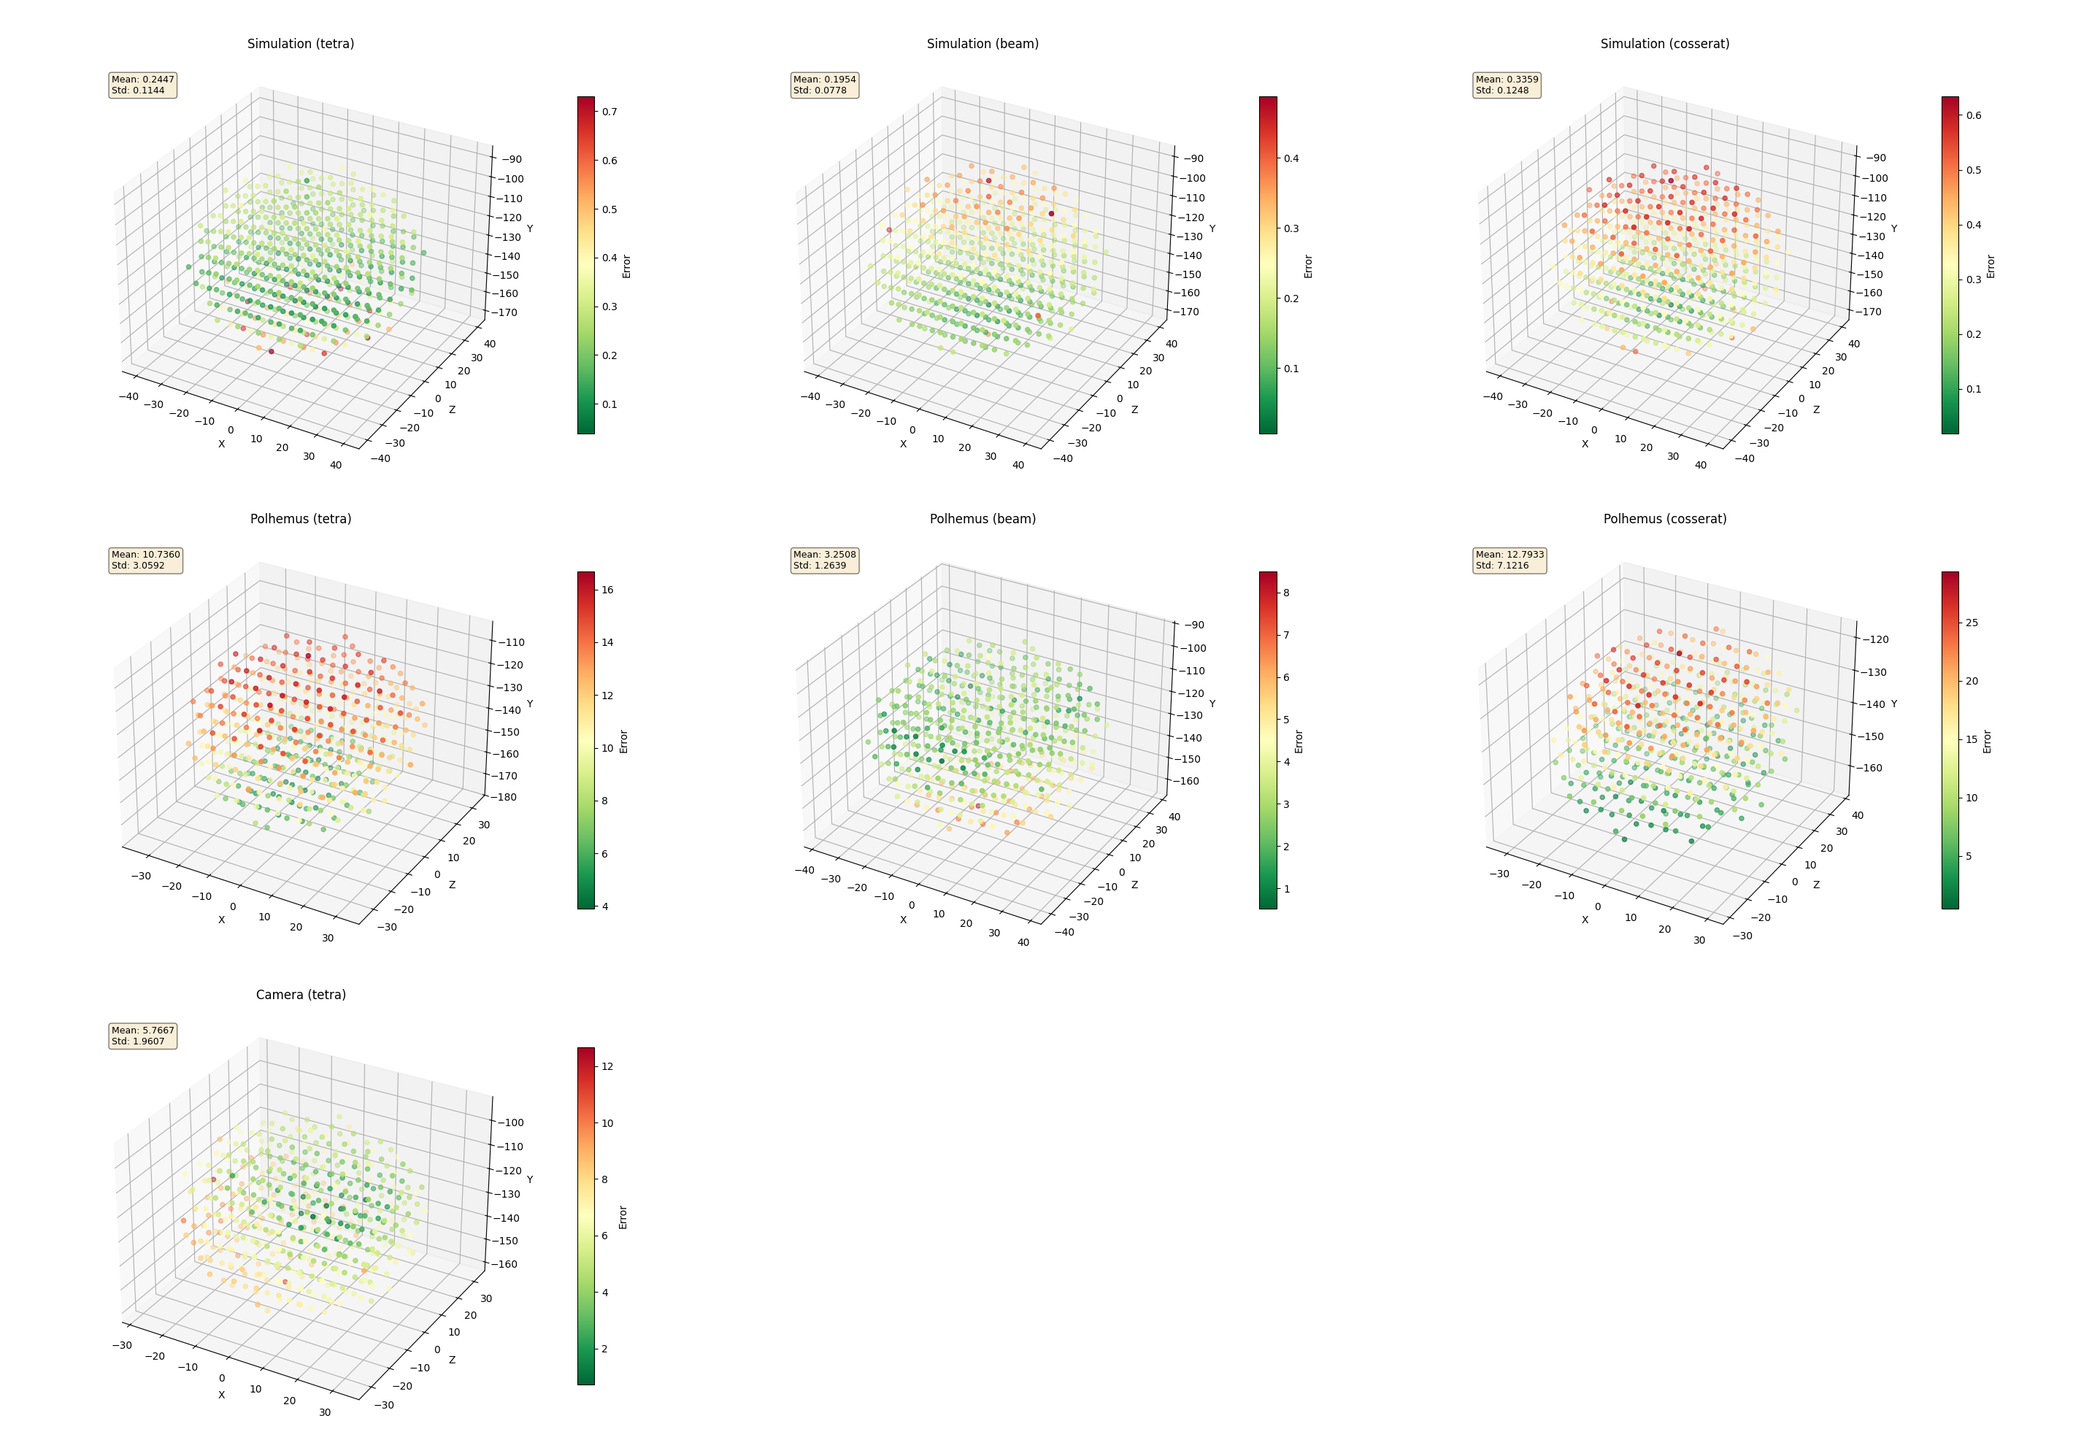
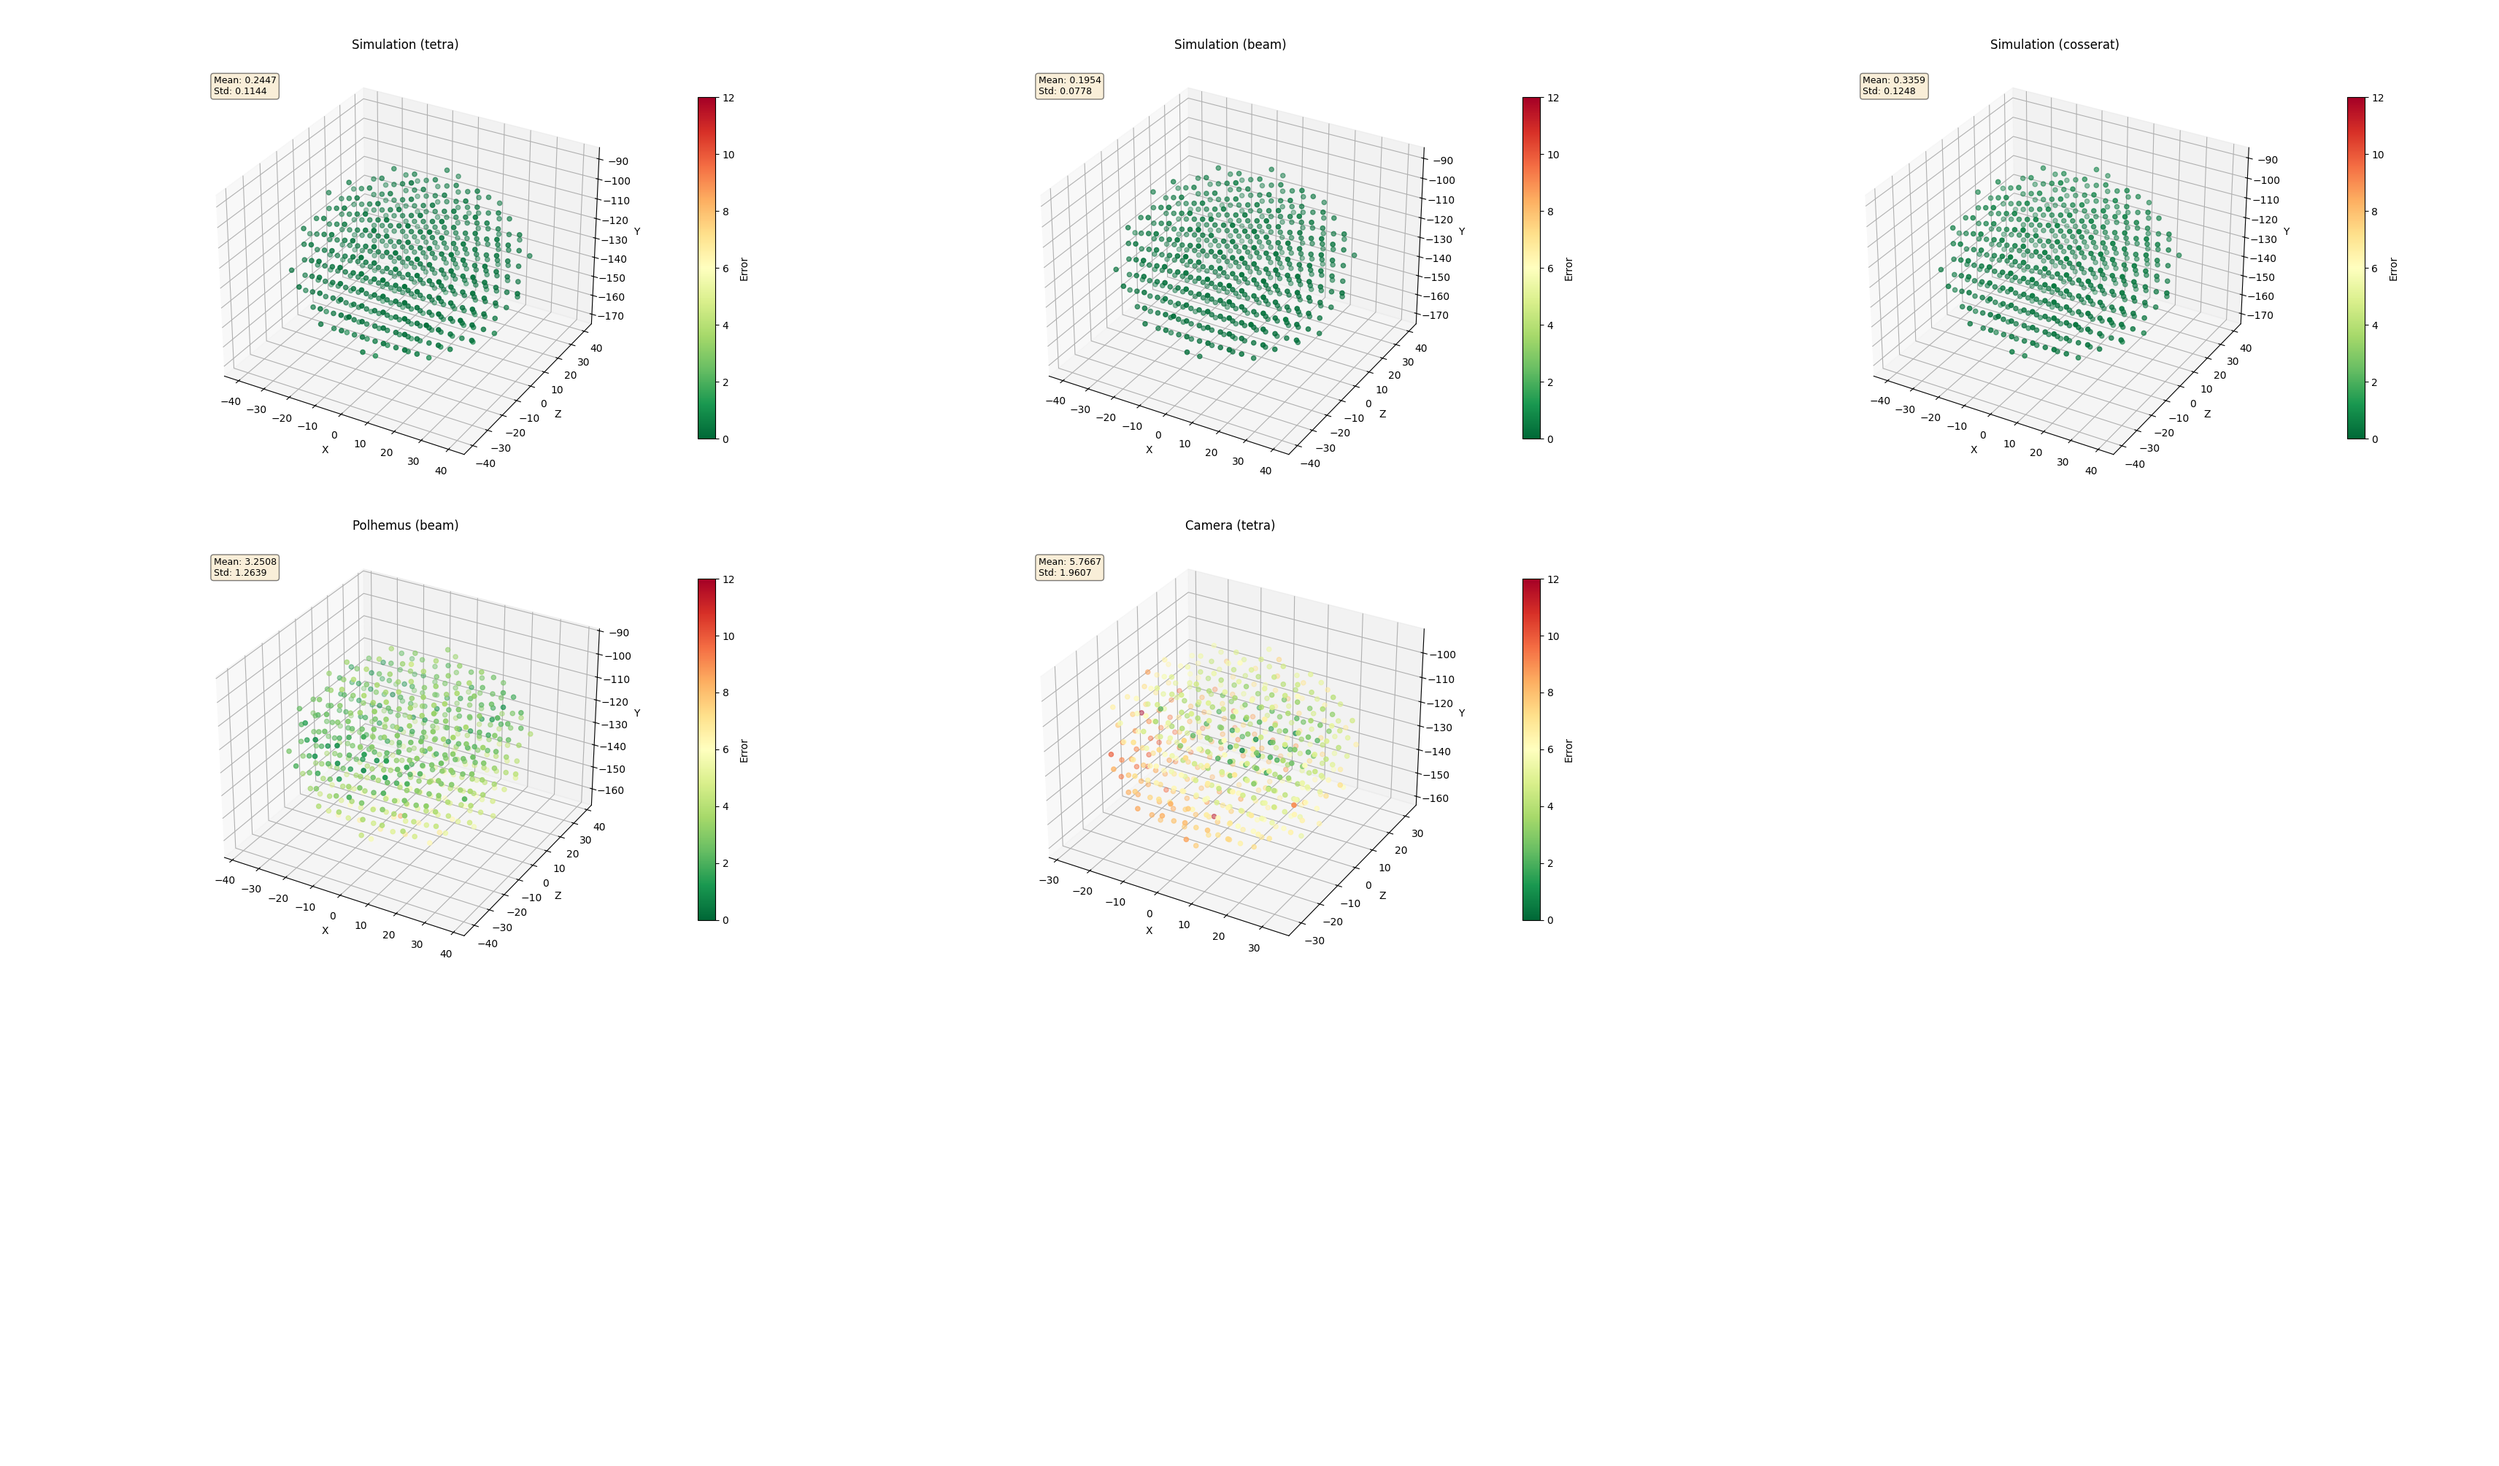
update plots image

diff --git a/modules/measurements.py b/modules/measurements.py
@@ -50,7 +50,8 @@ def plotPointCloudInAxis(ax, cloud, target, label):
     
     # Plot with color gradient
     cmap = plt.cm.RdYlGn_r  # Red (high error) to Green (low error)
-    norm = Normalize(vmin=np.min(errors), vmax=np.max(errors))
+    # norm = Normalize(vmin=np.min(errors), vmax=np.max(errors))
+    norm = Normalize(vmin=0, vmax=12)
     colors = cmap(norm(errors))
     
     scatter = ax.scatter(cloud[:, 0], cloud[:, 2], cloud[:, 1], c=colors, s=20)
@@ -90,7 +91,8 @@ def main():
         subplot_index += 1
     
     # Plot Polhemus data for different models
-    for model in ["tetra", "beam", "cosserat"]:
+    # for model in ["tetra", "beam", "cosserat"]:
+    for model in ["beam"]:
         target, _, _, polhemus = loadPositions("data/results/blueleg_"+model+"_polhemus_sphere.csv")
         ax = fig.add_subplot(3, 3, subplot_index, projection="3d")
         plotPointCloudInAxis(ax, polhemus, targets, f"Polhemus ({model})")
